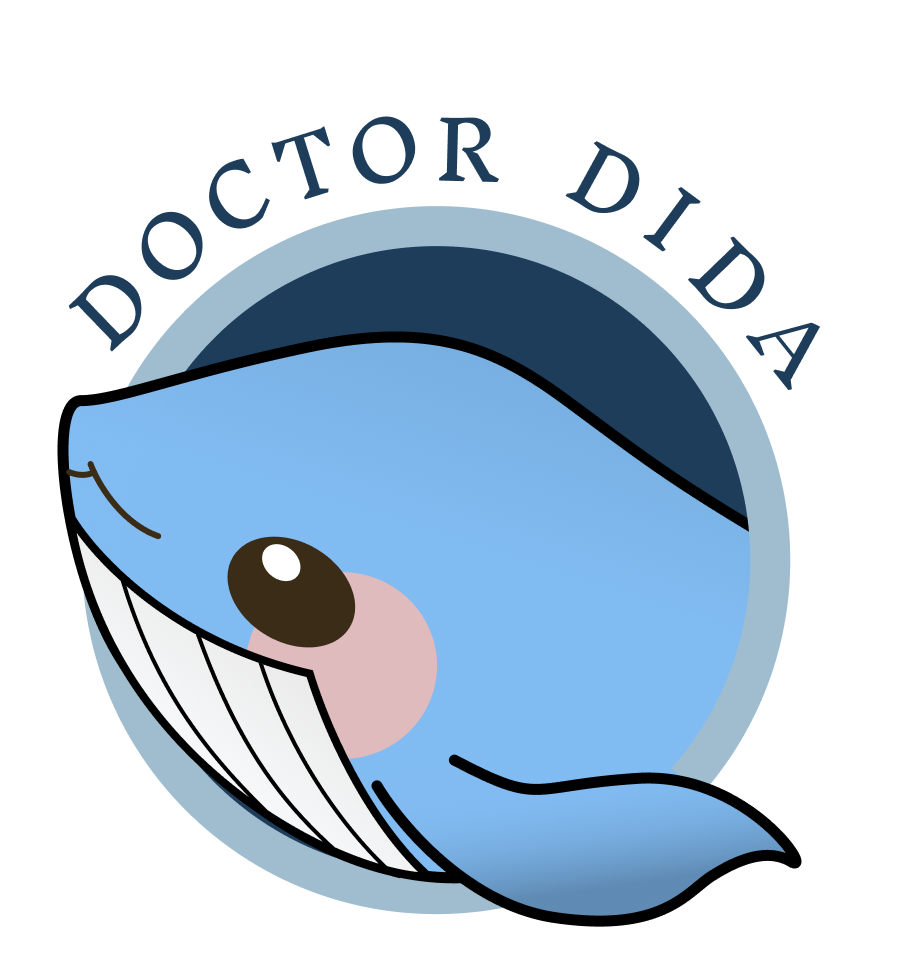
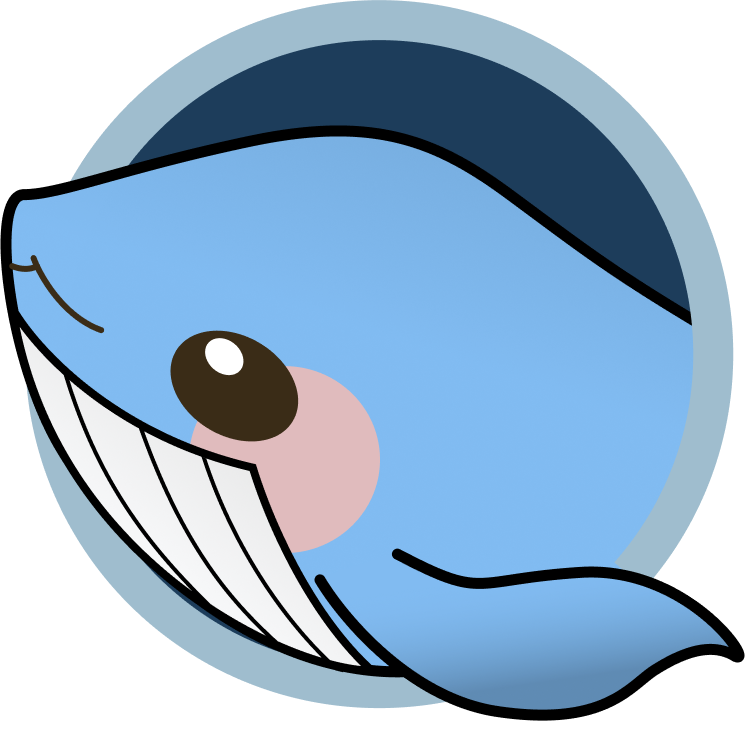
修改小幫手 DOCTOR DIDA 字體放大

diff --git a/src/components/helper.vue b/src/components/helper.vue
@@ -1,24 +1,28 @@
 <template>
-  <div class="helperAll">
-    <img
-      :src="require('../../public/all_images/doctor dida.png')"
-      alt=""
-      @click="moveShowText"
-    />
+  <!-- 小幫手 -->
+  <div class="helperAll" @click="moveShowText">
+    <div class="item">
+      <div class="circular">
+        <svg viewBox="0 0 100 100">
+          <path d="M 0,50 a 50,50 0 1,1 0,1 z" id="circle" />
+          <text>
+            <textPath href="#circle">
+              DOCTER DIDA
+            </textPath>
+          </text>
+        </svg>
+      </div>
+      <img :src="require('../../public/all_images/doctor dida.png')" alt="" />
+    </div>
   </div>
-  <div
-    class="showWindow"
-    :style="{ transform: showText ? 'translateX(0px)' : 'translateX(1000px)' }"
-  >
+
+  <div class="showWindow" :style="{ transform: showText ? 'translateX(0px)' : 'translateX(1000px)' }">
     <div class="windowBtnAll">
       <div @click="moveAddress">地址</div>
       <div @click="moveWeatherMax">降雨機率</div>
       <div @click="moveMaxT">今日溫度</div>
     </div>
-    <div
-      class="sayHelloTxt"
-      v-if="!(showAddress || showWeatherMax || showMaxT)"
-    >
+    <div class="sayHelloTxt" v-if="!(showAddress || showWeatherMax || showMaxT)">
       {{ sayHelloTxt }}
     </div>
     <div v-if="showAddress">地址 : {{ locationName }}</div>
@@ -113,17 +117,40 @@ export default {
 <style scoped lang="scss">
 .helperAll {
   position: fixed;
-  right: 30px;
-  top: 80%;
+  right: 40px;
+  top: 85%;
   width: 50px;
   height: 50px;
   z-index: 50;
   cursor: pointer;
 
-  img {
-    width: 100%;
-    border-radius: 50px;
+  .item {
+    position: relative;
+
+    img {
+      width: 100%;
+    }
+
+    .circular {
+      position: absolute;
+      top: -13px;
+      left: -13px;
+      width: 6em;
+      height: 6em;
+
+      path {
+        fill-opacity: 0;
+      }
+
+      svg {
+        display: block;
+        overflow: visible;
+      }
+    }
   }
+
+
+
 }
 
 .showWindow {
